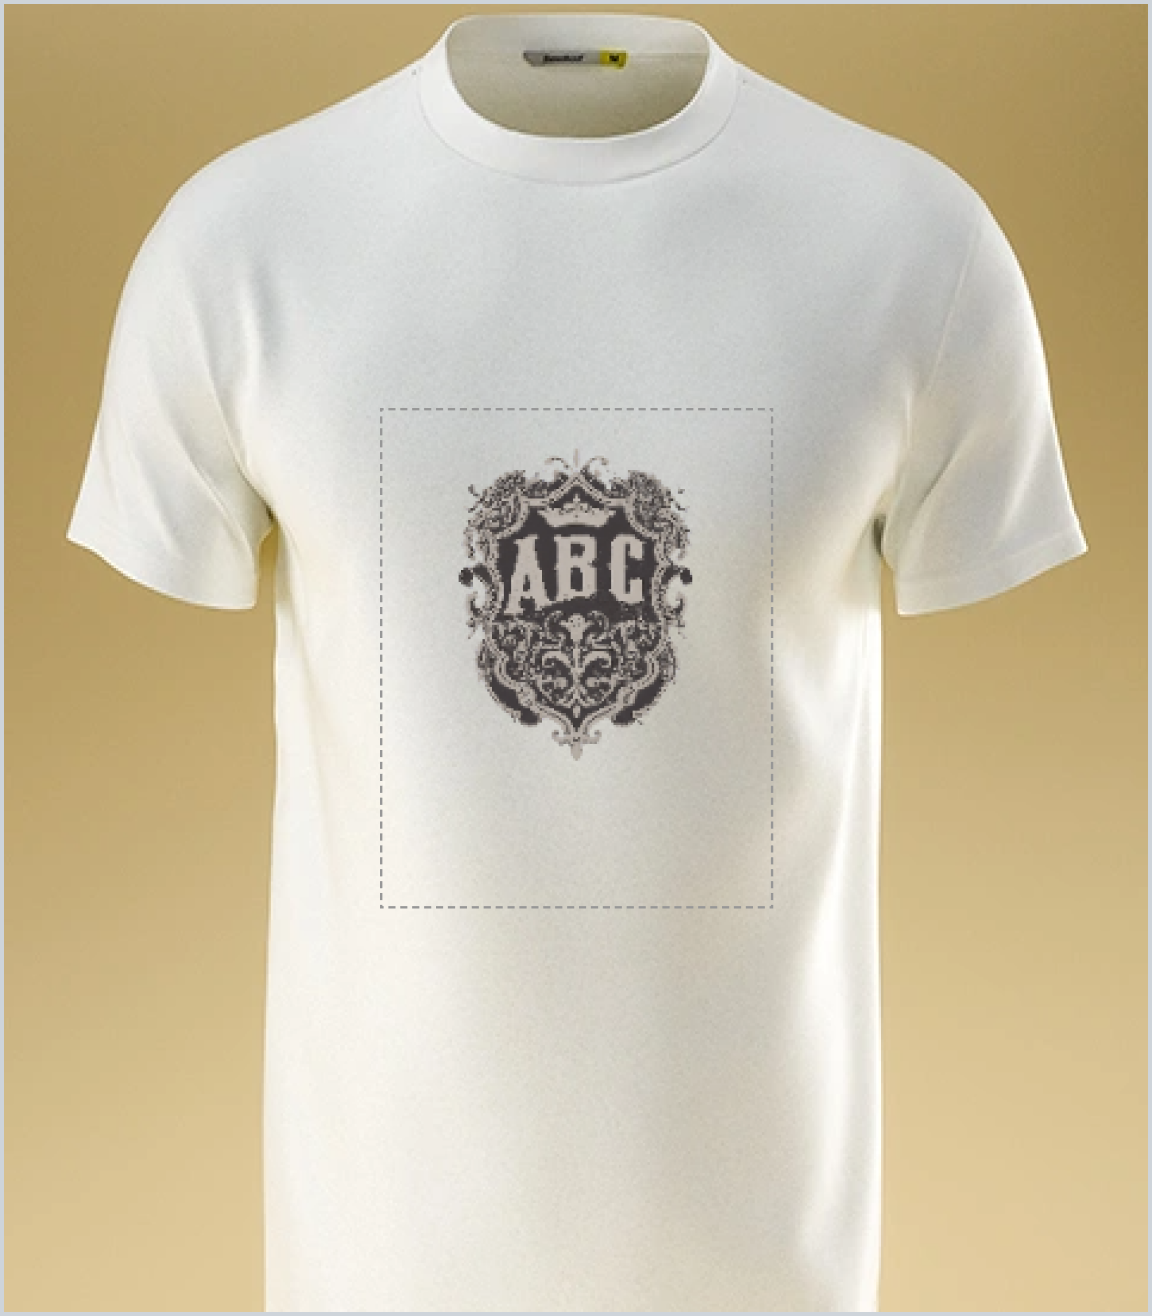
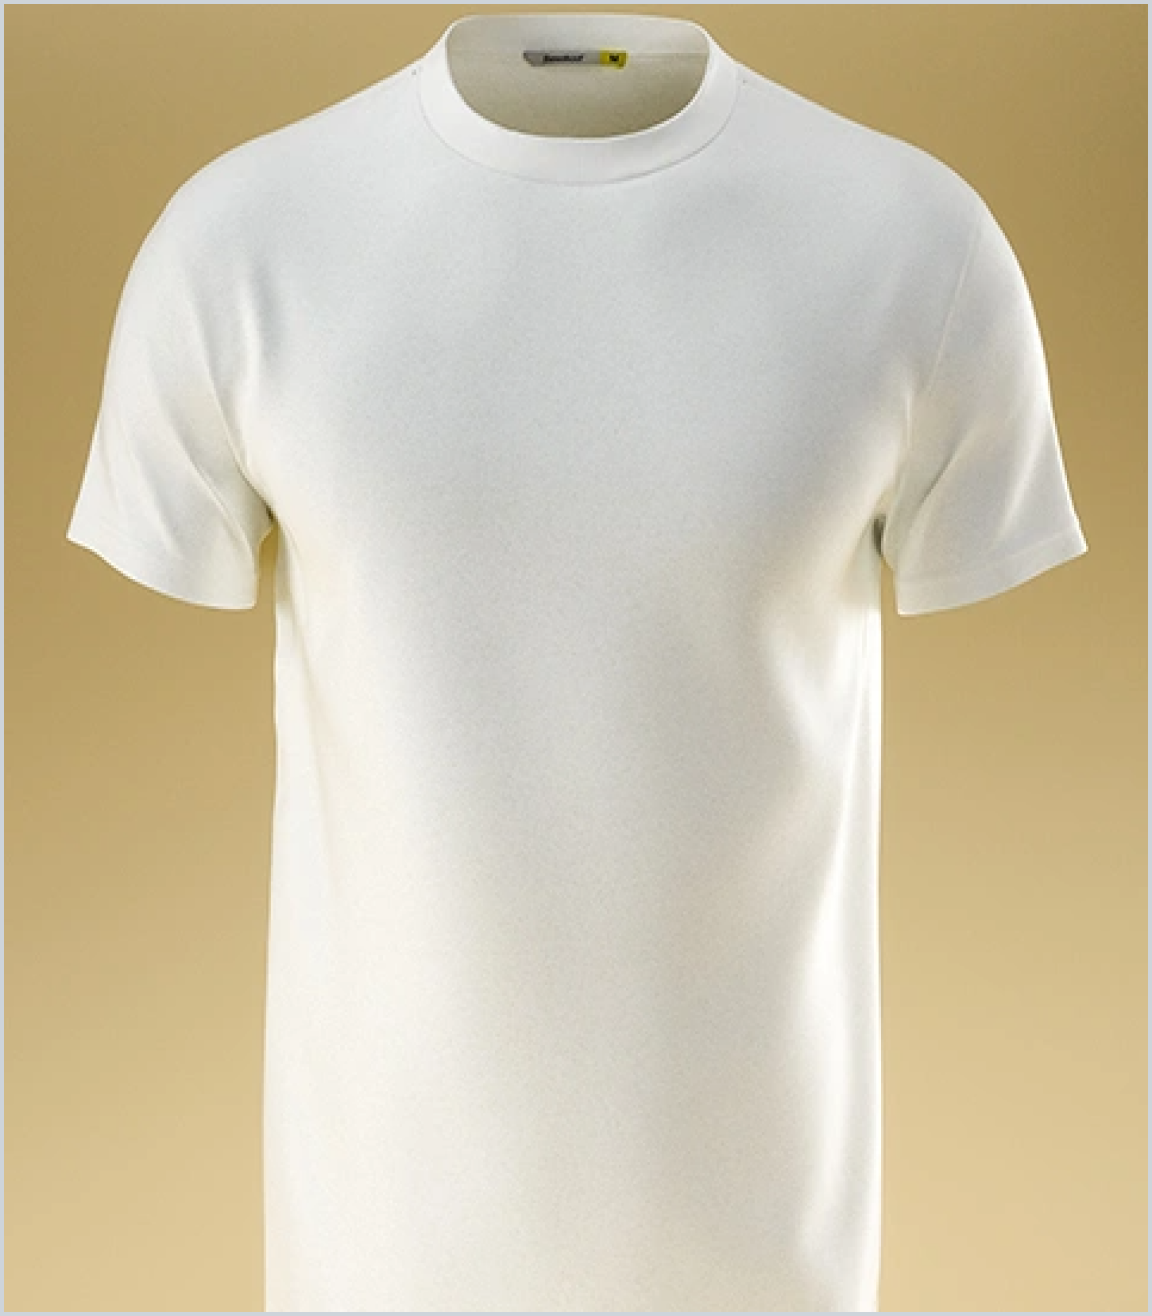
Megre two image.

Changed region(s): [[0.4062, 0.3427, 0.5938, 0.5919]]

diff --git a/src/components/img-merge.tsx b/src/components/img-merge.tsx
@@ -1,0 +1,91 @@
+"use client";
+import React, { useState } from "react";
+import mergeImages from "merge-images";
+import Image from "next/image";
+
+// import images
+import shirt from "@/assets/t-shirt.png";
+import logo from "@/assets/logo.png";
+
+const ImageMerge = () => {
+  const [mergedImage, setMergedImage] = useState<string | null>(null);
+
+  const handleMergeImages = async () => {
+    const b64 = await mergeImages([
+      { src: shirt.src },
+      {
+        src: logo.src,
+        x: 50,
+        y: 50,
+        opacity: 0.8,
+      },
+    ]);
+
+    setMergedImage(b64);
+  };
+
+  const handleDownload = () => {
+    if (mergedImage) {
+      const link = document.createElement("a");
+      link.href = mergedImage;
+      link.download = "merged-image.png";
+      link.click();
+    }
+  };
+
+  return (
+    <div className="flex flex-col items-center space-y-6 py-8">
+      <h1 className="text-2xl font-semibold">Merge the Images</h1>
+
+      <div className="max-w-screen-sm mx-auto flex gap-10">
+        <div className="flex items-center justify-center border rounded-lg">
+          <Image
+            src={shirt}
+            alt="shirt"
+            width={400}
+            height={400}
+            className="object-contain"
+          />
+        </div>
+        <div className="flex items-center justify-center border rounded-lg">
+          <Image
+            src={logo}
+            alt="logo"
+            width={400}
+            height={400}
+            className="object-contain"
+          />
+        </div>
+      </div>
+
+      <button
+        onClick={handleMergeImages}
+        className="px-4 py-2 bg-blue-500 text-white rounded hover:bg-blue-600"
+      >
+        Merge Images
+      </button>
+
+      {mergedImage && (
+        <div className="flex flex-col items-center space-y-4 ">
+          <div className="rounded-lg border">
+            <Image
+              src={mergedImage}
+              alt="Merged Image"
+              width={600}
+              height={600}
+              className="object-contain"
+            />
+          </div>
+          <button
+            onClick={handleDownload}
+            className="px-4 py-2 bg-green-500 text-white rounded hover:bg-green-600"
+          >
+            Download Image
+          </button>
+        </div>
+      )}
+    </div>
+  );
+};
+
+export default ImageMerge;

diff --git a/src/app/page.tsx b/src/app/page.tsx
@@ -1,10 +1,11 @@
-import ImageGenerator from "./img-generate";
+import ImageMerge from "@/components/img-merge";
+import ImageGenerator from "@/components/img-generate";
 
 export default function Home() {
   return (
     <main>
       <ImageGenerator />
+      <ImageMerge />{" "}
     </main>
   );
 }
-
